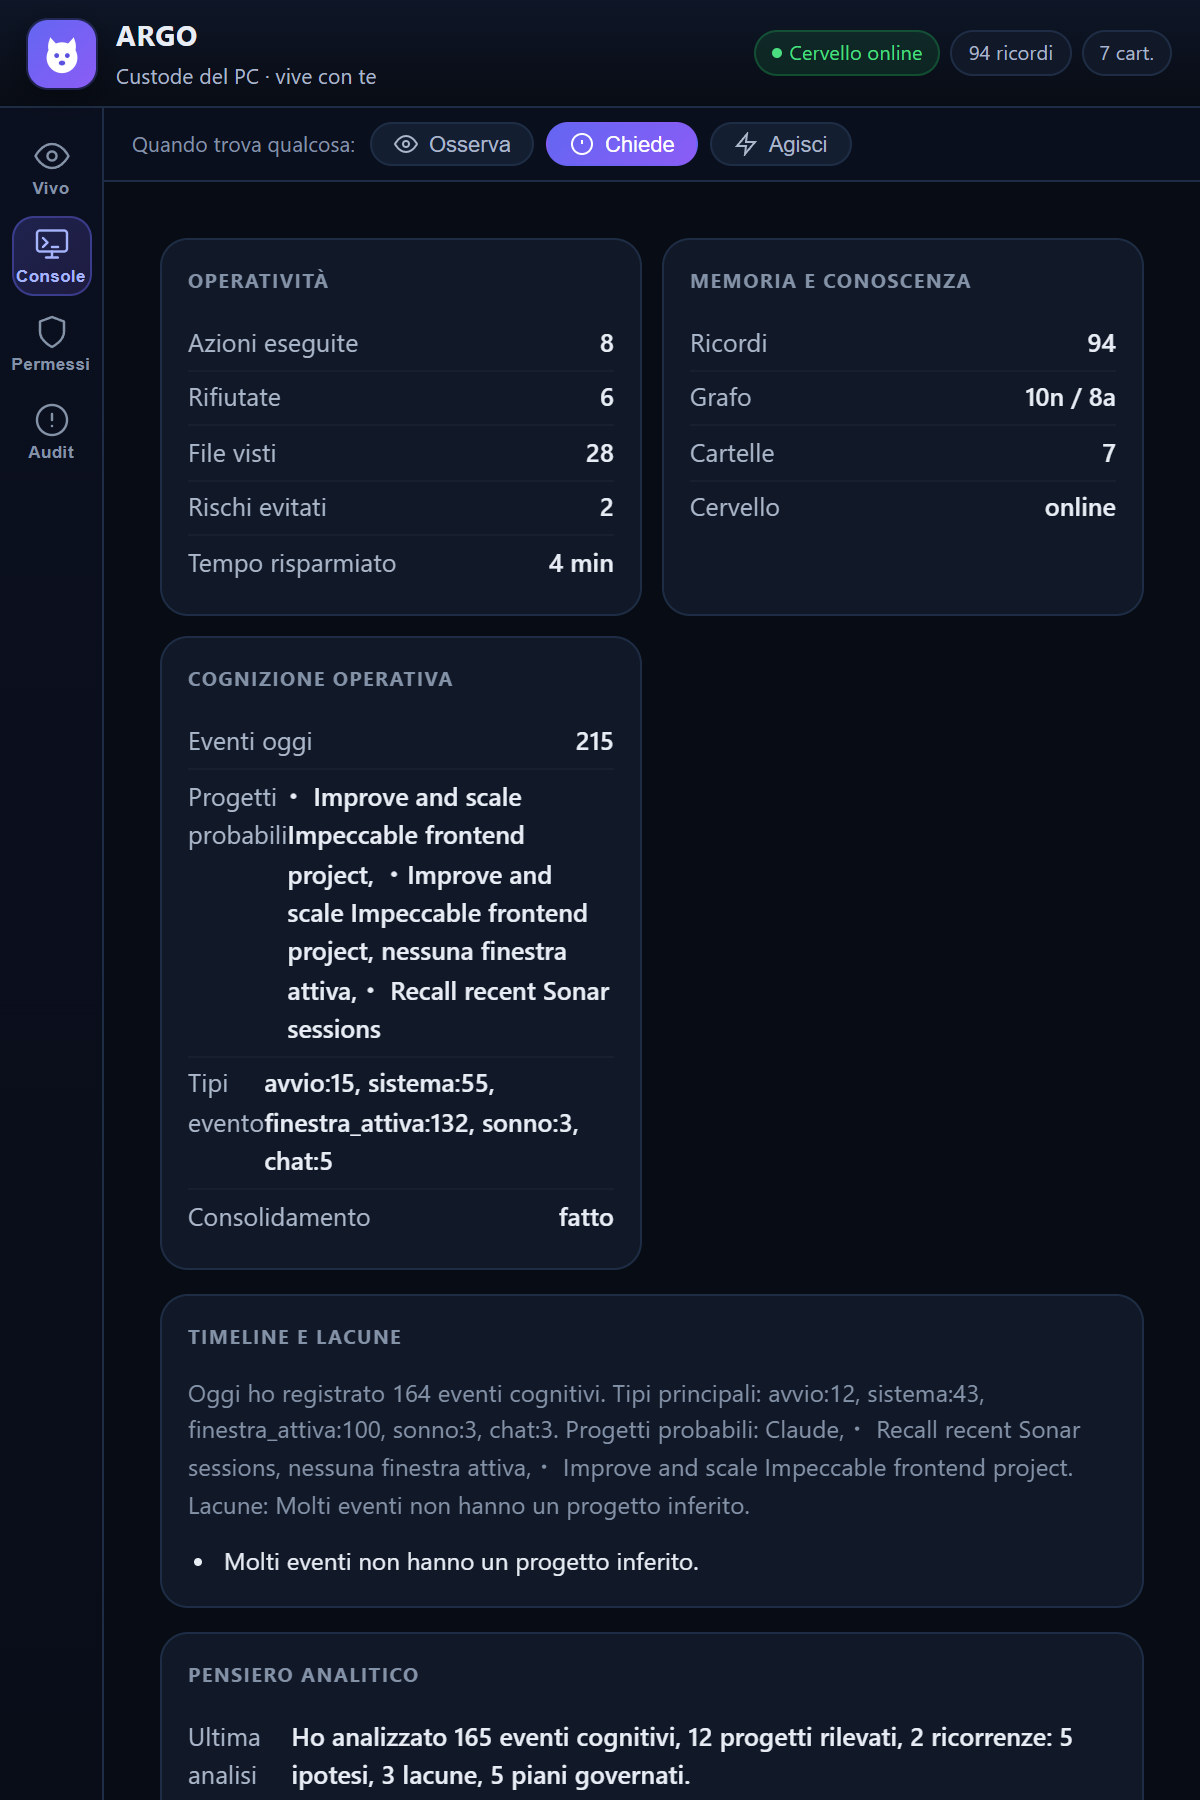
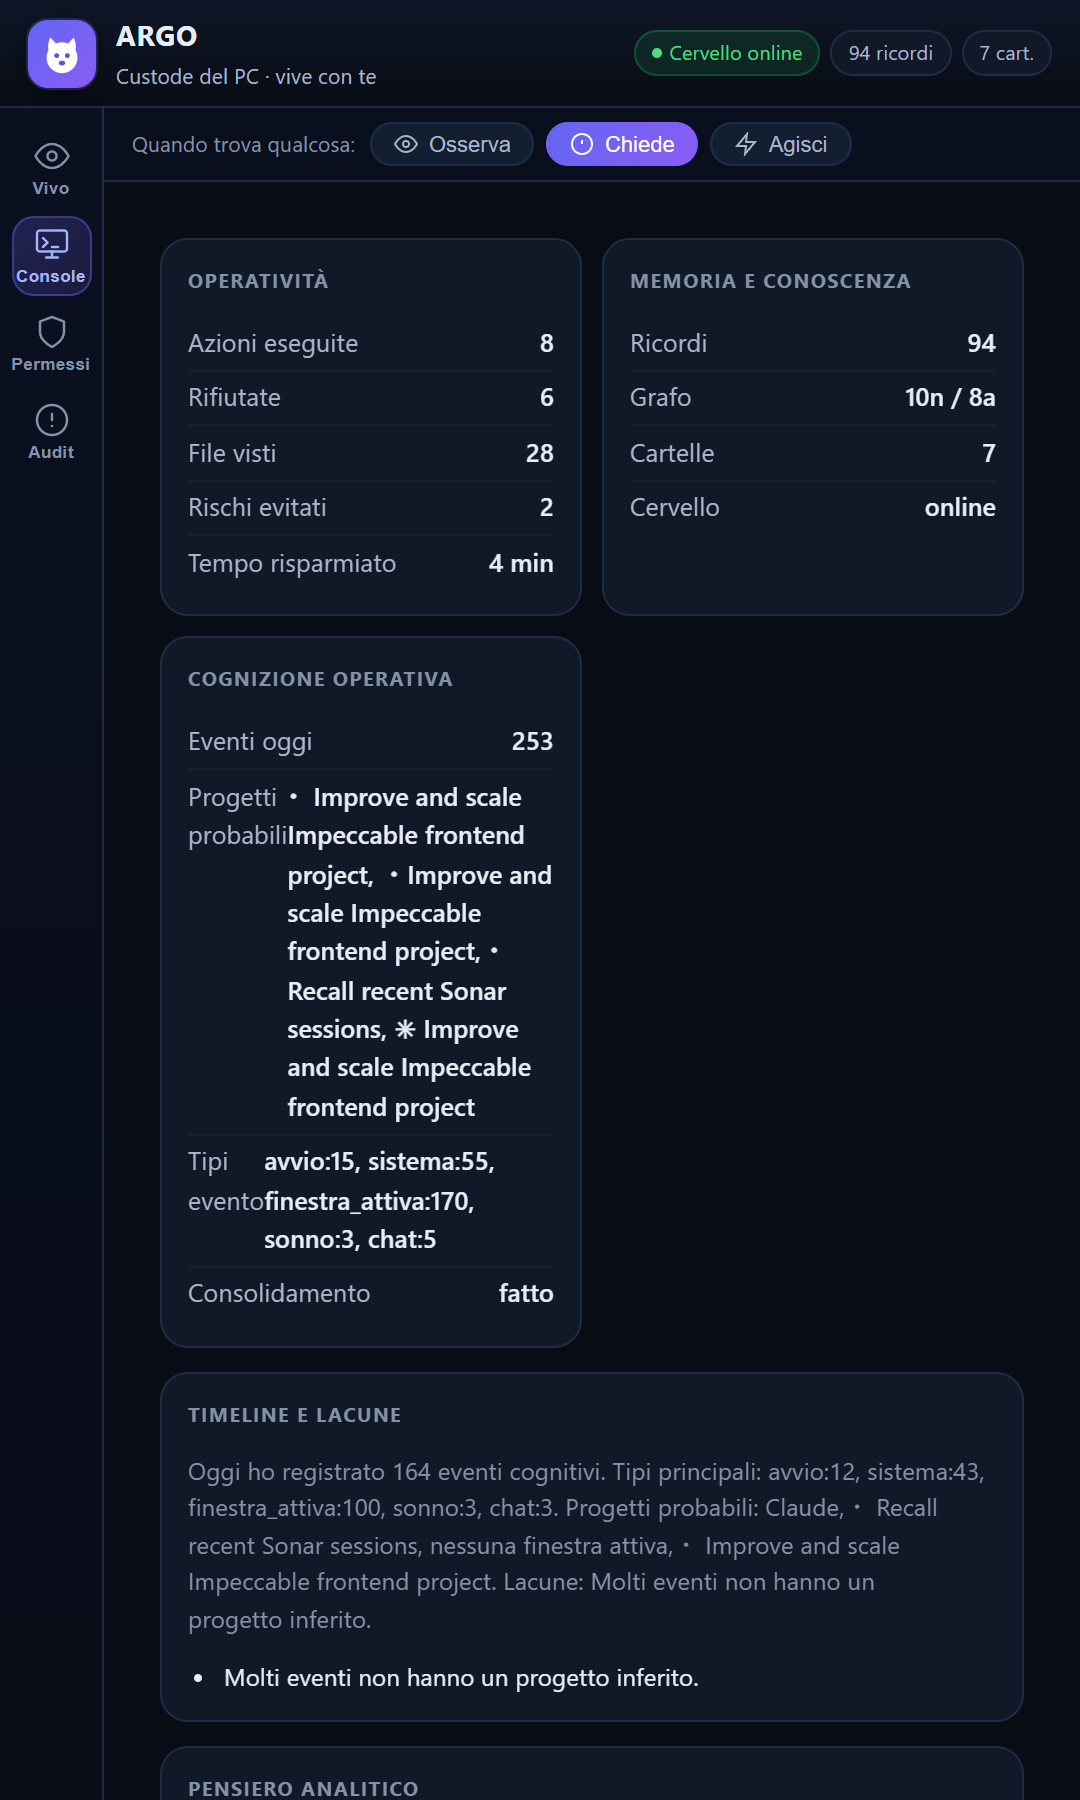
docs: refresh console screenshot + changelog (reorg + UI)

diff --git a/CHANGELOG.md b/CHANGELOG.md
@@ -5,6 +5,16 @@ All notable changes to ARGO are documented here. Format loosely based on
 
 ## [Unreleased]
 
+### Changed
+- **Repo reorganized into a clean tree**: status/planning docs moved to `docs/`, tests to
+  `tests/` (with path bootstrap), standalone dev scripts to `scripts/`; removed the dead
+  `ponte_sonar.py` (SONAR bridge); README gained a "Project layout" section. CI and
+  `.dockerignore` updated to the new paths.
+- **UI improved to the impeccable standard**: fixed the chat-view scroll/overflow so the
+  feed scrolls cleanly; rebuilt the companion eye with a real eyelid blink (pure CSS);
+  removed an AI-tell glow; detector stays at 0. (A residual chat-bubble overlay is being
+  finalized.)
+
 ### Added
 - **Docker support** for the headless engine: `Dockerfile` (stdlib-only, slim image,
   healthcheck), `docker-compose.yml` (reaches host Ollama via `host.docker.internal`,